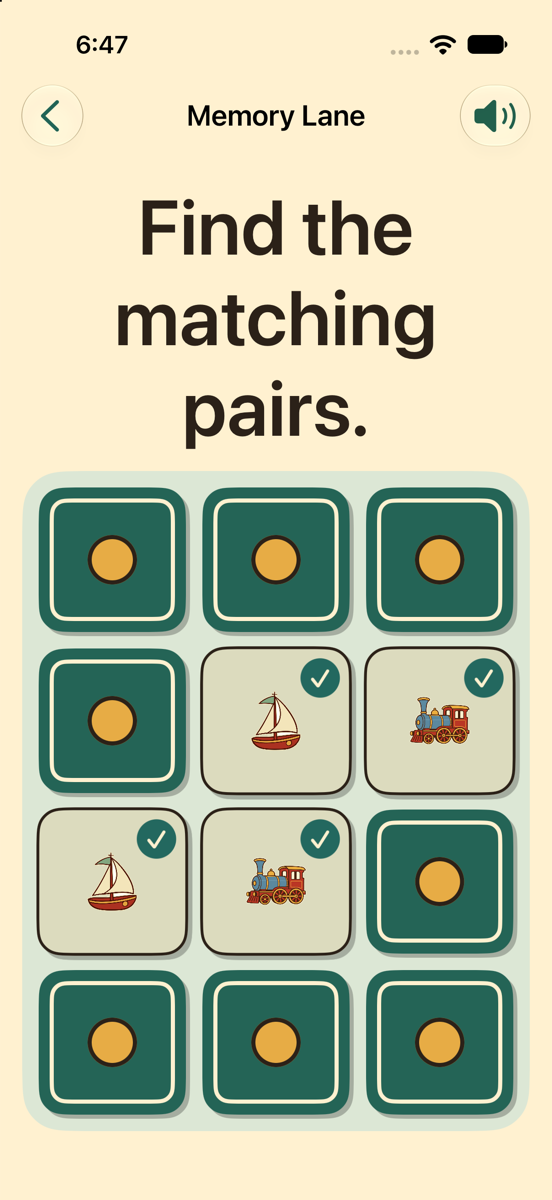
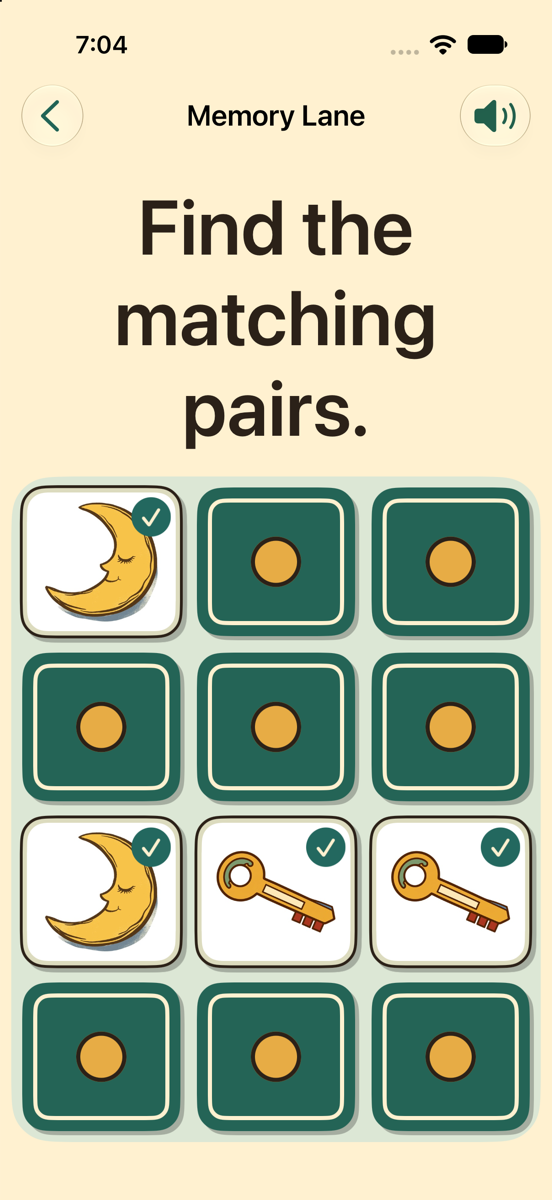
Keep the board's size: table outside its space, drop the pairs line (#582)

diff --git a/Ludavela/Games/MemoryMatchView.swift b/Ludavela/Games/MemoryMatchView.swift
@@ -12,7 +12,8 @@ import SwiftUI
 /// #142: the `.captions` variant (Names and Faces) is the same board with each photo paired to
 /// its caption instead of to a twin.
 /// #582: pilot of the approved look (docs/design/2026-11-03-sobremesa.md): the board on Home's flat
-/// table, the instruction in espresso on cream, a "Pairs found" line, one 2pt outline per card.
+/// table, the instruction in espresso on cream, one 2pt outline per card. The table never takes
+/// board space: the same pairs are dealt as before on every screen.
 struct MemoryMatchView: View {
     /// Which game this board plays: Memory Lane, or Names and Faces.
     enum Variant {
@@ -31,7 +32,6 @@ struct MemoryMatchView: View {
 
     @Environment(\.modelContext) private var modelContext
     @Environment(\.accessibilityReduceMotion) private var reduceMotion
-    @Environment(\.dynamicTypeSize) private var typeSize
 
     private static let spacing: CGFloat = 12
     /// The app icon's jade card and cream frame (#384): the same in light and dark.
@@ -139,34 +139,14 @@ struct MemoryMatchView: View {
     }
 
     var body: some View {
-        // The board gets what the header leaves: tight gaps, and the pairs-found line instead of
-        // a progress row of its own, so the cards stay as large as the screen allows (#582).
-        VStack(spacing: 12) {
+        VStack(spacing: 24) {
             LevelExplainBanner(
                 game: variant.game, hasStarted: moves > 0,
                 keepsSpace: true)
-            VStack(spacing: 4) {
-                Text(AppLanguage.localized(variant.instructionKey))
-                    .font(.title2.weight(.semibold))
-                    .foregroundStyle(Color.espresso)
-                    .multilineTextAlignment(.center)
-                // Words, not just ticks on the cards: the count never depends on colour. Left out at
-                // accessibility sizes, where two more lines of header would take the board's room;
-                // the ticks and the spoken "Pair found" still say it. Hidden (and silent) in the
-                // first layout pass, before any cards are dealt.
-                if !typeSize.isAccessibilitySize {
-                    Text(
-                        String(
-                            format: AppLanguage.localized("game.memory.found %lld %lld"),
-                            board.pairsFound, board.pairCount)
-                    )
-                    .font(.title3.weight(.semibold))
-                    .foregroundStyle(.tint)
-                    .multilineTextAlignment(.center)
-                    .opacity(board.pairCount == 0 ? 0 : 1)
-                    .accessibilityHidden(board.pairCount == 0)
-                }
-            }
+            Text(AppLanguage.localized(variant.instructionKey))
+                .font(.title2.weight(.semibold))
+                .foregroundStyle(Color.espresso)
+                .multilineTextAlignment(.center)
 
             GeometryReader { geometry in
                 let fit = Self.gridFit(count: cards.count, in: geometry.size, spacing: Self.spacing)
@@ -215,10 +195,12 @@ struct MemoryMatchView: View {
                     }
                 }
             }
-            // The flat jade table Home deals on (#580), so the board sits on the same surface.
-            // The padding is outside the reader: cards are dealt and sized to what is left.
-            .padding(12)
+            // The flat jade table Home deals on (#580). It is drawn 8pt outside the board's own space
+            // (padding in, then out again), so the board is offered exactly the room it had before
+            // the table and deals the same pairs on every screen: levels stay as they were (#582).
+            .padding(8)
             .background(Color.tableSurface, in: .rect(cornerRadius: 30))
+            .padding(-8)
         }
         .padding()
         // A finished board is recorded already, so leaving in the beat before the cover never asks.

diff --git a/LudavelaTests/MemoryMatchLevelsTests.swift b/LudavelaTests/MemoryMatchLevelsTests.swift
@@ -45,4 +45,16 @@ final class MemoryMatchLevelsTests: XCTestCase {
         let fit = MemoryMatchView.gridFit(count: pairs * 2, in: Self.smallBoard, spacing: 12)
         XCTAssertGreaterThanOrEqual(min(fit.card.width, fit.card.height), MemoryMatchView.minCard)
     }
+
+    /// iPhone SE (3rd generation), whose Memory Lane board measured 343 x 511 pt on the simulator with
+    /// no level note above it (#582: the jade table around the board must not change this). A one-line
+    /// and a two-line note (`title2`, 28 pt a line, plus the 24 pt gap) take the height down to 459 and 431.
+    func testGivenIPhoneSEBoardWhenPairCountAtLevelsOneFiveTenThenPairsAreNeverFewer() {
+        for height in [511.0, 459.0, 431.0] {
+            let board = CGSize(width: 343, height: height)
+            XCTAssertEqual(MemoryMatchView.cappedPairs(for: Difficulty(level: 1), in: board), 3, "level 1, \(height)")
+            XCTAssertEqual(MemoryMatchView.cappedPairs(for: Difficulty(level: 5), in: board), 7, "level 5, \(height)")
+            XCTAssertEqual(MemoryMatchView.cappedPairs(for: Difficulty(level: 10), in: board), 12, "level 10, \(height)")
+        }
+    }
 }

diff --git a/LudavelaTests/MemoryBoardTests.swift b/LudavelaTests/MemoryBoardTests.swift
@@ -63,31 +63,6 @@ final class MemoryBoardTests: XCTestCase {
         XCTAssertTrue(board.faceUp.isEmpty)
     }
 
-    // MARK: - Pairs found (#582)
-
-    func testGivenNewDealWhenAskedThenNoPairsFoundOfTwo() {
-        XCTAssertEqual(board.pairsFound, 0)
-        XCTAssertEqual(board.pairCount, 2)
-    }
-
-    func testGivenOneMatchAndOneMissWhenAskedThenOnlyTheMatchCounts() {
-        _ = board.tap(0)
-        _ = board.tap(2)
-        _ = board.tap(1)
-        _ = board.tap(0)
-
-        XCTAssertEqual(board.pairsFound, 1)
-    }
-
-    func testGivenEveryPairFoundWhenAskedThenFoundEqualsCount() {
-        _ = board.tap(0)
-        _ = board.tap(2)
-        _ = board.tap(1)
-        _ = board.tap(3)
-
-        XCTAssertEqual(board.pairsFound, board.pairCount)
-    }
-
     // MARK: - VoiceOver announcements (#393)
 
     /// The shipped catalog's text for one language, so the tests hear what a player hears.

diff --git a/Ludavela/Games/MemoryBoard.swift b/Ludavela/Games/MemoryBoard.swift
@@ -40,12 +40,6 @@ struct MemoryBoard {
 
     var isComplete: Bool { !pairs.isEmpty && matched.count == pairs.count }
 
-    /// Pairs on the board, for the "Pairs found: 2 of 6" line (#582). Every pair is two cards.
-    var pairCount: Int { pairs.count / 2 }
-
-    /// Pairs found so far; a missed pair is never counted, because only a match joins `matched`.
-    var pairsFound: Int { matched.count / 2 }
-
     mutating func tap(_ index: Int) -> Tap {
         // Cards of the showing miss ignore taps, as they did before the board
         // existed; only a different card turns the pair back. Found cards and

diff --git a/docs/issue-evidence/582/README.md b/docs/issue-evidence/582/README.md
@@ -6,49 +6,63 @@ in #578: cream paper, the flat jade table (`Color.tableSurface`, as on Home), es
 
 ## What changed
 
-- **Board:** sits on a rounded `tableSurface` panel (12pt inside, radius 30 like Home's table). The grid is sized to
-  what is left inside the panel, so cards are dealt and fitted exactly as before (`gridFit`, `cappedPairs`, `minCard` unchanged).
-- **Header:** the instruction is `.title2` semibold in espresso. Gaps between header and board went from 24pt to 12pt,
-  which pays for the new line below.
-- **Progress:** one line, "Pairs found: 2 of 6" / "Parejas encontradas: 2 de 6", in the game's ink. It is words, not a
-  row of progress cards: the cards already show found pairs, and a progress row would have cost about 30pt more of board.
-  At accessibility sizes it is left out (it would take two more lines of the board's room); the checkmarks and VoiceOver's
-  "Pair found" announcement remain. `MemoryBoard.pairsFound` / `pairCount` feed it (tested).
+- **Board:** sits on a rounded `tableSurface` panel (radius 30, as Home's table). The panel is drawn 8pt outside the board's own
+  space (`.padding(8).background(...).padding(-8)`), so the board is offered exactly the room it had before. Grid sizing
+  (`gridFit`, `cappedPairs`, `minCard`) is untouched and every screen deals the same pairs as before (see the review below).
+- **Header:** the instruction is `.title2` semibold in espresso; spacing is unchanged.
 - **Found pairs:** the card keeps its checkmark and jade wash, now drawn over paper. Before, the wash replaced the paper
   and the new table showed through the card. The checkmark is capped at `.xxxLarge` text scaling: at AX5 it grew to
   cover the whole card, hiding the picture (same cap as Category Fluency's badge).
-- **Photos:** family photos and captions render as before (photo-captions screenshot below).
-- New string `game.memory.found %lld %lld`, EN + ES.
+- **Photos:** family photos render as before (the captures use photo cards; Names and Faces shares the view).
+- **Progress:** Memory Lane has no round counter. The found-pair signal (checkmark and wash on the card, "Pair found"
+  spoken to VoiceOver) is kept as is. A first version added a "Pairs found: 2 of 6" line; it cost about 30pt of board and,
+  with a level note showing, dealt fewer pairs on an iPhone SE than main, so it was removed (review of #592). It can come back
+  if the board can give the room back.
+- No new strings.
+
+## Review: same pairs on iPhone SE (3rd generation)
+
+Measured on the simulator with a temporary fixture (removed before commit) that logs the board's size and forces the level.
+Final board size after layout settles, English, light, default text, no level note:
+
+| Build | Board size (pt) | Pairs at level 1 / 5 / 10 |
+|---|---|---|
+| main (376c2c7) | 343 x 511 | 3 / 7 / 12 |
+| first version of this PR (panel padding + count line) | 319 x 471 | 3 / 7 / 12 (but 10 at level 10 with a two-line level note: computed with `gridFit`, not run) |
+| this version | 343 x 511 | 3 / 7 / 12 |
+
+The first version already dealt the same pairs without a level note, but its margin was thin: with a two-line level note
+the computation above gives 10 pairs where main gives 12, so it is not shipped. This version offers the board the same size as main
+(same logged sequence of sizes, including the transient first layouts), so the pair count cannot differ on any screen.
+`MemoryMatchLevelsTests.testGivenIPhoneSEBoardWhenPairCountAtLevelsOneFiveTenThenPairsAreNeverFewer` pins 3 / 7 / 12 at the
+measured 343 x 511 and at 459 and 431 (one-line and two-line level note, `title2` at 28pt a line plus the 24pt gap; derived, not measured).
+It passes on main too, because the fitting code is unchanged: the layout equality itself can only be checked on the simulator
+(the table above), not by a unit test.
 
 ## Captures
 
-Own iPhone 17 simulator (iOS 27, 402x874 pt), driven by a temporary launch fixture (removed before commit) that
-mounts `MemoryMatchView` and plays the first matching pairs. Photos in the captions capture are art samples copied
-into the simulator's own album, with invented names; not part of the repo or the app.
+Own iPhone 17 simulator (iOS 27, 402x874 pt) and the iPhone SE 3 simulator, driven by a temporary launch fixture (removed
+before commit) that mounts `MemoryMatchView` and plays the first matching pairs. The photos are art samples copied into the
+simulator's own album; not part of the repo or the app.
 
-- `memory-lane-en-light.png`: English, light, default text, two pairs found.
+- `memory-lane-en-light.png`: English, light, default text, three pairs found (photo cards, checkmark and wash).
 - `memory-lane-es-dark.png`: Spanish, dark, default text, two pairs found.
-- `memory-lane-en-light-ax5.png`: English, light, accessibility 5 (largest text). The instruction wraps to three lines,
-  the progress line is left out, the board keeps six pairs.
-- `names-and-faces-en-light.png`: Names and Faces with a photo card and its caption found, both with the checkmark.
+- `memory-lane-en-light-ax5.png`: English, light, accessibility 5 (largest text). The instruction wraps to three lines and the board keeps six pairs.
+- `iphone-se-level-10.png`: iPhone SE 3, English, light, level 10: 12 pairs, same cards as main (about 77 x 75pt, 60pt floor).
 
-A baseline capture before the change (English, light, default text; board on bare cream, instruction `.title2` regular,
-no count) was taken but is not committed, to stay under four images.
+Names and Faces was captured on an earlier build of this PR (with the count line), not on the final one; its layout is the same view.
 
-Card sizes read from the captures (points): level with six pairs, default text, 109 x 140 (was 116 x 151 on bare cream);
-AX5, 109 x 105 here. The panel costs about 7pt of card width. Cards stay at or above the 60pt floor of conventions §4 and
-the 100pt aim in both captures. On a small phone, a level with many pairs can still deal fewer pairs than before, by
-`cappedPairs`' existing rule that cards never go under 60pt; not measured on a small device (see Gaps).
+Card sizes from the captures (points): 6-pair level on iPhone 17, about 116 x 151 at default text, the same as main (the table is
+outside the board's space); AX5, about 116 x 109. Both stay above the 60pt floor of conventions §4, and the 100pt aim.
 
 ## Checks against the acceptance list
 
 - Pair recognition and selection: unchanged code path (`flip`, `MemoryBoard`); the fixture matched pairs through it.
 - Large text: instruction readable at AX5 (`.title2` or larger); cards at least 100pt in the AX5 capture.
-- Dark mode: captured (ES). Light: captured (EN).
-- Reduce Motion: the code paths are the ones that existed (`reduceMotion` in `face`); the only new views, a panel
-  and a text line, have no motion. Not toggled in the simulator.
-- VoiceOver: card labels, hints and the announcements on each tap are unchanged; the new line is plain text that reads
-  itself and is hidden before the deal. Not listened to (no device); a physical VoiceOver pass is still pending (#586).
+- Dark mode: captured (ES). Light: captured (EN, SE).
+- Reduce Motion: the code paths are the ones that existed (`reduceMotion` in `face`); the only new views are a panel and a
+  colour, with no motion. Not toggled in the simulator.
+- VoiceOver: card labels, hints and the tap announcements are unchanged. Not listened to (no device); a physical VoiceOver pass is still pending (#586).
 
 ## Inventory: how the other games differ (not changed here)
 
@@ -60,7 +74,7 @@ and `PictureView`. What differs, by file in `Ludavela/Games/`:
 |---|---|---|---|
 | Table behind the play area | `tableSurface` panel | None: content on bare cream. Own surfaces: ColorClash question card `systemBackground`; PegSolitaire amber 35% board; NumberSlide wood tray (`Wood.tray`); TilePairs `Color.primary` 8% field; Tangram/UpOrDown paper cards | `Color.tableSurface` + `.padding(12).background(..., in: .rect(cornerRadius: 30))`. Needs a ticket per game that has its own surface (colour-as-stimulus or wood art must be kept) |
 | Instruction | `.title2` semibold, espresso | `.title2` regular, default colour in nearly all (ColorClash, MathStreak, Peg, Sudoku, Tangram, TilePairs, UpOrDown, WordSearch, QuickEyes, SlidingBlocks, NumberSlide, RepeatSequence); Riddles serif italic; Reminiscence `.largeTitle` | The same two modifiers: `.font(.title2.weight(.semibold)).foregroundStyle(Color.espresso)` |
-| Progress | "Pairs found" line | `RoundCounter` / `ProgressCards` in ColorClash, MathStreak, QuickEyes, RepeatSequence, Sayings, Riddles, Reminiscence, CategoryFluency; none in Sudoku, SlidingBlocks, Tangram, TilePairs, Peg, UpOrDown, WordSearch, NumberSlide | `ProgressCards` as is. TilePairs is the closest twin of Memory Lane and has no pairs line: a candidate |
+| Progress | none added (checkmark and wash on found cards) | `RoundCounter` / `ProgressCards` in ColorClash, MathStreak, QuickEyes, RepeatSequence, Sayings, Riddles, Reminiscence, CategoryFluency; none in Sudoku, SlidingBlocks, Tangram, TilePairs, Peg, UpOrDown, WordSearch, NumberSlide | `ProgressCards` as is. TilePairs is the closest twin of Memory Lane and also has no pairs line |
 | Found / correct mark | `CheckBadge`, capped | `CheckBadge` uncapped via `answerMark` (ColorClash, MathStreak, QuickEyes, Riddles); CategoryFluency caps it like here; WordSearch uses a plain check glyph and strikethrough | Cap in `CheckBadge` itself (one line) instead of at each call site: a separate ticket, since it changes every game |
 | Answer buttons | n/a (cards) | `AnswerTileStyle(minHeight: 100)` almost everywhere; Riddles' "Give me a clue" button is 72 (a secondary action), ColorClash tiles 110 | Already shared. The 72pt clue button is above the 60pt floor but below the 100pt aim: a decision for its own ticket |
 | Card/tile outline | 2pt espresso | `AnswerTileStyle` 3pt tint edge; Lotería 4pt tint; UpOrDown 2pt ink; Tangram `.secondary` | Spec says one 2pt espresso outline per card: decide whether answer tiles follow (separate ticket) |
@@ -69,12 +83,11 @@ and `PictureView`. What differs, by file in `Ludavela/Games/`:
 
 Candidate follow-up tickets (none opened by this PR): (1) table panel and espresso instruction in the games that have no surface
 of their own (Sudoku, WordSearch, SlidingBlocks, UpOrDown, TilePairs); (2) cap `CheckBadge` scaling in the shared view;
-(3) Riddles clue button at 72pt; (4) `.secondary` to `inkSoft` in five games; (5) a pairs line for TilePairs.
+(3) Riddles clue button at 72pt; (4) `.secondary` to `inkSoft` in five games; (5) a pairs-found line for Memory Lane and TilePairs, if a layout can give the room back.
 No new abstraction is proposed: each item reuses a component that already has several users.
 
 ## Gaps (not verified)
 
-- No small phone (iPhone SE) or iPad capture; board size there follows `cappedPairs`, whose inputs now lose about 30pt of
-  height to the new line and 24pt of width to the panel.
+- No iPad capture; other iPhone sizes follow from the same size equality with main.
+- Level notes (the banner above the board) were not forced on the simulator; the two-line case is computed.
 - Reduce Motion and VoiceOver not exercised on the simulator or a device.
-- The tint colour of the progress line is the game's ink; its contrast is the one `ContrastTests` already checks for game inks on paper.

diff --git a/CHANGELOG.md b/CHANGELOG.md
@@ -12,7 +12,7 @@ Format: [Keep a Changelog](https://keepachangelog.com/en/1.1.0/). Newest first.
 - **Number Slide / Rompecocos, the 15-number sliding puzzle (#547):** a new game. Tap any tile in the empty space's row or column and it slides, with every tile between it and the space, as on the wooden toy; a swipe toward the space works too. Each tile that can move shows a small arrow toward the space. Levels 1–5 are a 3×3 board, 6–10 the classic 4×4, each dealt by random slides from the finished board so every deal can be solved. Undo, Start over and "Show me a move" ("Muéstrame un paso") sit under the board, there is no move counter, and finishing says "All in order!" ("¡Todo en orden!"). VoiceOver reads each tile as "number 7, row 2, column 3" and offers only the slides that can happen, so the whole puzzle can be played by ear. With Reduce Motion the tiles land without sliding. It is in "Why these games". EN + ES.
 
 ### Changed
-- **Memory Lane on the same table (#582):** the board now sits on the flat jade table that Home uses, the instruction is in dark ink on cream, and a line under it says "Pairs found: 2 of 6" ("Parejas encontradas: 2 de 6"; left out at the largest text sizes, where the checkmarks and the spoken "Pair found" carry it). Found cards keep their checkmark and wash, and the checkmark no longer covers a card's picture at accessibility text sizes. Names and Faces uses the same board. Game rules, levels and photos are unchanged. EN + ES.
+- **Memory Lane on the same table (#582):** the board now sits on the flat jade table that Home uses and the instruction is in dark ink on cream. Found cards keep their checkmark and wash, and the checkmark no longer covers a card's picture at accessibility text sizes. Names and Faces uses the same board. The table takes none of the board's room, so every screen deals the same pairs as before; game rules, levels and photos are unchanged.
 - **Quieter game cards (#580):** bigger pictures, one printed outline and names in dark ink on cream; catalogue names wrap without shrinking, while compact cards keep their existing fit. Completed games keep their checkmark, and large-text rows use the same simpler treatment.
 - **A clearer place to start (#581):** Home puts the next game and its play action first on a calm table, while keeping all recommended cards, their completion marks and the daily week record. At accessibility text sizes, the greeting gives the action more room. If all games are hidden, Home points to Settings to choose games.
 - **Lotería (#573):** temporarily hidden from the game list and daily picks while its play is reconsidered; previous sessions remain saved.
